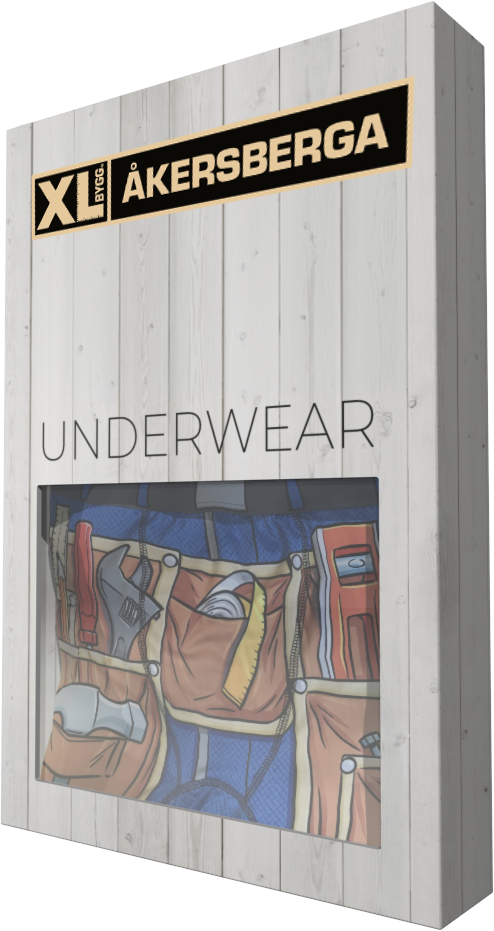
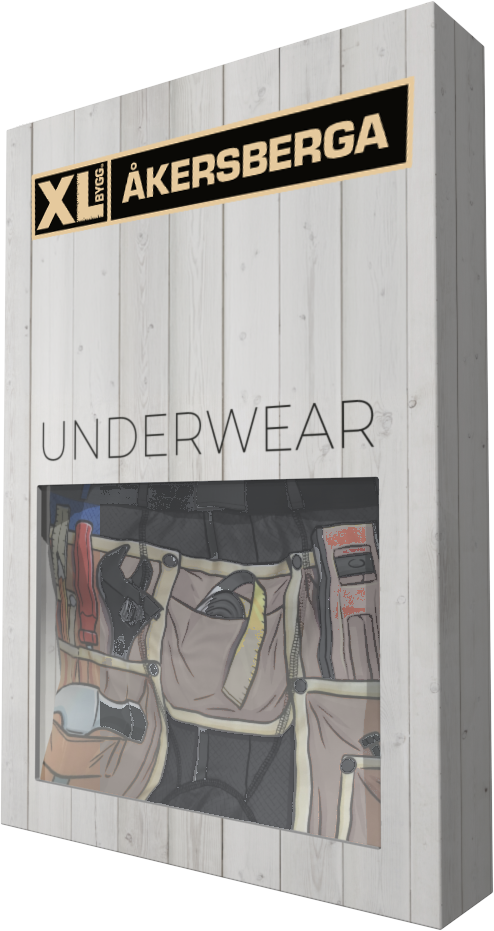
Kalsonger 2027: bara svart – blå borttagen, lådornas kalsonger omfärgade
Claude-Session: https://claude.ai/code/session_01AE5iKwkdq4Ei7XsGbvuTHc

diff --git a/kalsonger/index.html b/kalsonger/index.html
@@ -5,7 +5,7 @@
 <meta name="viewport" content="width=device-width, initial-scale=1.0">
 <meta name="robots" content="noindex,nofollow">
 <title>Hantverkarkalsongen 2027 — CX Design</title>
-<meta name="description" content="Hantverkarkalsongen 2027 i grå och blå. Er logga på förpackningen – och 20 kr per par går till Prostatacancerfonden.">
+<meta name="description" content="Hantverkarkalsongen 2027 i svart. Er logga på förpackningen – och 20 kr per par går till Prostatacancerfonden.">
 <link rel="preconnect" href="https://fonts.googleapis.com">
 <link rel="preconnect" href="https://fonts.gstatic.com" crossorigin>
 <link href="https://fonts.googleapis.com/css2?family=Instrument+Serif:ital@1&family=Inter+Tight:wght@400;500;600;700;800;900&family=IBM+Plex+Mono:wght@500&display=swap" rel="stylesheet">
@@ -224,12 +224,7 @@
   <div>
     <div class="ey">Profilprodukt · Bygghandel</div>
     <h1>Hantverkar&shy;kalsongen<span class="year">Upplaga 2027</span></h1>
-    <p class="lede">Boxern med verktygsbältet. Grå eller blå – packad i en låda med er logga. Och för varje par går <strong>20 kr till Prostatacancerfonden</strong>.</p>
-    <div class="swatches" role="radiogroup" aria-label="Välj färg">
-      <span class="lbl">Färg</span>
-      <button class="sw on" data-c="gra" role="radio" aria-checked="true"><i></i><span class="nm">Grå</span></button>
-      <button class="sw" data-c="bla" role="radio" aria-checked="false"><i></i><span class="nm">Blå</span></button>
-    </div>
+    <p class="lede">Boxern med verktygsbältet. Svart, packad i en låda med er logga. Och för varje par går <strong>20 kr till Prostatacancerfonden</strong>.</p>
     <div class="cta">
       <a class="btn" href="#stall">20 kr/par till Prostatacancerfonden <span>→</span></a>
     </div>
@@ -238,10 +233,9 @@
     <div class="disc"></div>
     <div class="ring"><span id="ringLbl">Förpackning · XL-BYGG Materialmännen</span></div>
     <div class="slide box on" data-lbl="Förpackning · XL-BYGG Materialmännen" data-c=""><img src="img/box.png" alt="Förpackning med XL-BYGG Materialmännens logga" width="486" height="921" fetchpriority="high"></div>
-    <div class="slide" data-lbl="Grå · framsida" data-c="gra"><img src="img/gra.png" alt="Hantverkarkalsong, grå" width="1142" height="908"></div>
+    <div class="slide" data-lbl="Svart · framsida" data-c="svart"><img src="img/gra.png" alt="Hantverkarkalsong, svart" width="1142" height="908"></div>
     <div class="slide box" data-lbl="Förpackning · XL-BYGG Åkersberga" data-c=""><img src="img/box2.png" alt="Förpackning med XL-BYGG Åkersbergas logga" width="494" height="931"></div>
-    <div class="slide" data-lbl="Grå · baksida" data-c="gra"><img src="img/gra-bak.png" alt="Hantverkarkalsong, grå, baksida" width="1400" height="1062"></div>
-    <div class="slide" data-lbl="Blå · framsida" data-c="bla"><img src="img/bla.png" alt="Hantverkarkalsong, blå" width="996" height="728"></div>
+    <div class="slide" data-lbl="Svart · baksida" data-c="svart"><img src="img/gra-bak.png" alt="Hantverkarkalsong, svart, baksida" width="1400" height="1062"></div>
     <div class="dots" id="dots" aria-hidden="true"></div>
   </div>
 </header>
@@ -249,10 +243,10 @@
 <!-- DONATIONSREMSA -->
 <div class="tape" aria-hidden="true"><div class="track" id="track">
   <span><b>20 kr</b> per par till Prostatacancerfonden</span>
-  <span>Grå · Blå</span>
+  <span>Svart med verktygsbälte</span>
   <span>Er logga på förpackningen</span>
   <span><b>20 kr</b> per par till Prostatacancerfonden</span>
-  <span>Grå · Blå</span>
+  <span>Svart med verktygsbälte</span>
   <span>Er logga på förpackningen</span>
 </div></div>
 
@@ -287,7 +281,7 @@
       <h2 style="margin-top:16px">Stället <em>ingår.</em><br>Ställ det vid kassan.</h2>
       <p>Köper ni 50 par i mixade storlekar får ni golvstället på köpet – färdigtryckt med er logga, topskylt och plats för 9 lådor i fronten. Packa upp, ställ vid kassan eller hantverkaringången, klart.</p>
       <div class="offer">
-        <div class="row"><div class="num">50</div><div class="t">par i mixade storlekar<small>Grå och blå, storlekskurva sätts per butik</small></div></div>
+        <div class="row"><div class="num">50</div><div class="t">par i mixade storlekar<small>Storlekskurva sätts per butik</small></div></div>
         <div class="row"><div class="num">+1</div><div class="t">golvställ med er logga<small>Ingår utan kostnad</small></div></div>
         <div class="row"><div class="num">20<span style="font-size:.5em"> kr</span></div><div class="t">per par till Prostatacancerfonden<small>Står tryckt på stället</small></div></div>
       </div>
@@ -299,7 +293,7 @@
 <section class="specs"><div class="wrap">
   <div class="specs-grid">
     <div class="spec obs"><div class="k">Modell</div><div class="v">Boxer med verktygsbälte<small>Tryckt motiv runt om</small></div></div>
-    <div class="spec obs"><div class="k">Färger</div><div class="v">Grå · Blå<small>Svart midjeband på samtliga</small></div></div>
+    <div class="spec obs"><div class="k">Färger</div><div class="v">Svart<small>Verktygsbälte i grått och gult</small></div></div>
     <div class="spec obs"><div class="k">Storlekar</div><div class="v">S – XXL <span class="todo">Kontrollera</span><small>Storlekskurva sätts per order</small></div></div>
     <div class="spec obs"><div class="k">Material</div><div class="v">Polyester/elastan <span class="todo">Kontrollera</span><small>Andningsaktivt, formstabilt</small></div></div>
   </div>
@@ -325,17 +319,16 @@
 
   // Karusell i heron
   const stage=document.getElementById('stage'),slides=[...stage.querySelectorAll('.slide')],dots=document.getElementById('dots'),ring=document.getElementById('ringLbl');
-  const discs={'':'radial-gradient(circle at 50% 42%,#f7f3ea 0,#e6dfd0 60%,transparent 70%)',gra:'radial-gradient(circle at 50% 42%,#f7f3ea 0,#e6dfd0 60%,transparent 70%)',bla:'radial-gradient(circle at 50% 42%,#eef2f8 0,#d6dde8 60%,transparent 70%)'};
+  const discs={'':'radial-gradient(circle at 50% 42%,#f7f3ea 0,#e6dfd0 60%,transparent 70%)',svart:'radial-gradient(circle at 50% 42%,#f7f3ea 0,#e6dfd0 60%,transparent 70%)'};
   let cur=0,timer;
   slides.forEach((_,i)=>{const b=document.createElement('button');b.addEventListener('click',()=>{go(i);restart()});dots.appendChild(b)});
   function go(i){cur=(i+slides.length)%slides.length;slides.forEach((sl,k)=>sl.classList.toggle('on',k===cur));[...dots.children].forEach((d,k)=>d.classList.toggle('on',k===cur));
     const sl=slides[cur];ring.style.opacity=0;setTimeout(()=>{ring.textContent=sl.dataset.lbl;ring.style.opacity=1},300);
     stage.querySelector('.disc').style.background=discs[sl.dataset.c];
-    const c=sl.dataset.c;document.querySelectorAll('.sw').forEach(x=>{const on=c&&x.dataset.c===c;x.classList.toggle('on',on);x.setAttribute('aria-checked',on)});}
+  }
   function restart(){clearInterval(timer);if(!matchMedia('(prefers-reduced-motion:reduce)').matches)timer=setInterval(()=>go(cur+1),3800)}
   go(0);restart();
   stage.addEventListener('mouseenter',()=>clearInterval(timer));stage.addEventListener('mouseleave',restart);
-  document.querySelectorAll('.sw').forEach(b=>b.addEventListener('click',()=>{const i=slides.findIndex(sl=>sl.dataset.c===b.dataset.c);if(i>-1){go(i);restart()}}));
 
   // Scroll-reveal
   const io=new IntersectionObserver(es=>es.forEach(x=>{if(x.isIntersecting){x.target.classList.add('in');io.unobserve(x.target)}}),{threshold:.12});
